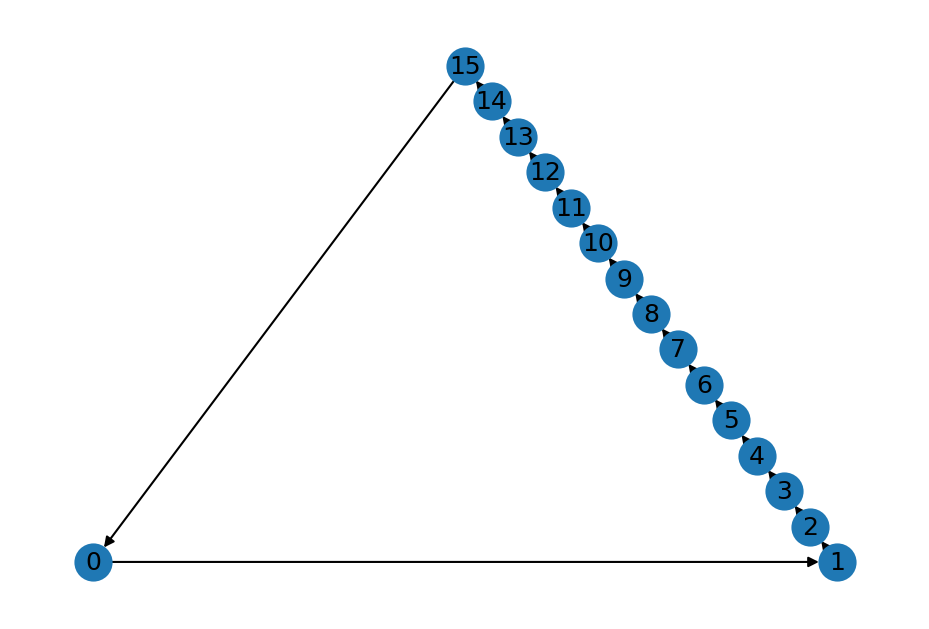
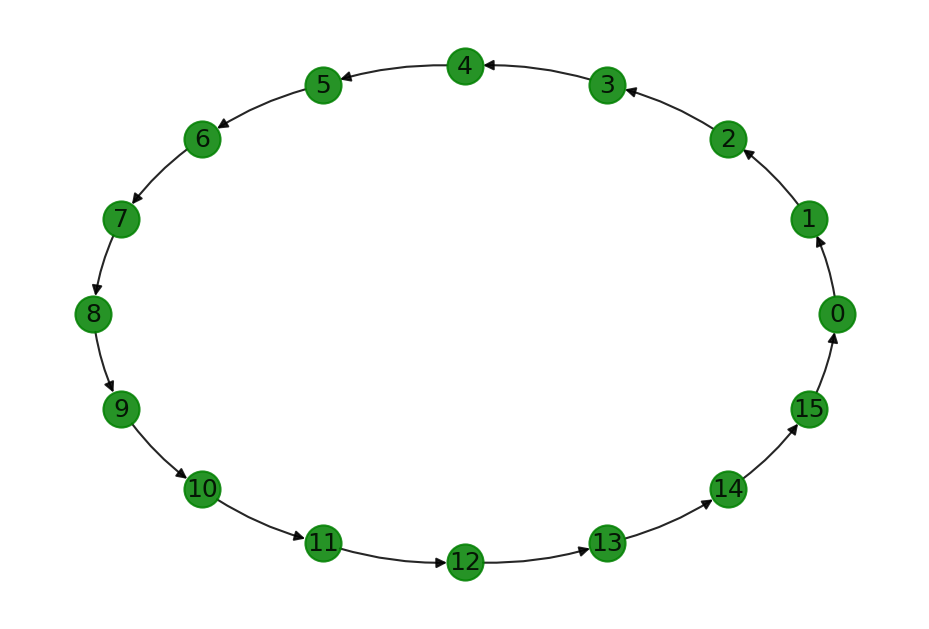
update

diff --git a/_posts/2020-12-01-conv_mat.md b/_posts/2020-12-01-conv_mat.md
@@ -7,9 +7,9 @@
 
 Perhaps the most ubiquitous operation in digital signal processing is the application of filters on signals via convolution. The convolution operation is defined as:
 
-$$ y[n] =(h * x)[n] = \sum_{m=0}^{N} h[n-m] x[m] $$
+$$ y[n] =(h * x)[n] = \sum_{m=0}^{N-1} h[n-m] x[m] $$
 
-where $x[n]$ is the input signal of length $P$, $h[n]$ is the filter of length $L$, $N = P + L - 1$, and $n \in \mathbb{Z}$ is the time step.
+where $x[n]$ is the input signal with entries $(x_0, ..., x_{P-1})$, $h[n]$ is the filter with entries $(h_0, ..., h_{L-1})$, $y[n]$ is the output with entries $(y_0, ..., y_{N=P+L-1})$.
 
 ### Properties:
 
@@ -41,17 +41,23 @@ Similarly a shifted delta function yields a shifted copy of the input sequence:
 
 $$ x[n - m] = x[n] * \delta[n - m] $$
 
-Any finite sequence $x[n]$ of length $N_x$ can be represented
+Any finite sequence $x[n]$ of length $P$ can be represented as a weighted sum (linear combination) of shifted delta functions
+
+$$x[n] = \sum_{m=0}^{P-1} x_m \delta[n - m]$$
+
+In fact, shifted delta functions serve as the basis vectors in time domain.
 
 ## Circular Convolution
 
 A related operation is circular convolution: 
 
-$$ y[n] = x[n] \circledast h[n] = \sum_{m=0}^{N-1} h[(n-m)\text{ mod } N] x[m] $$
+$$ y[n] = x[n] \circledast_N h[n] = \sum_{m=0}^{N-1} h[(n-m)\text{ mod } N] x[m] $$
 
-Circular Convolution can be used to compute regular convolution (sometimes called linear convolution) if $x$ and $h$ are padded with zeros such that the new lengths equal $N_x + N_h - 1$. 
+Circular Convolution can be used to compute regular convolution (sometimes called linear convolution) if $x$ and $h$ are padded with zeros such that the new lengths equal $P + L - 1$, and the output truncated to the length of $P+L-1$. 
 
+Example: 
 
+$\delta[n - 1] \circledast_P x[n]$ yields a circularly shifted sequence by one entry: $(x_{P-1}, x_0, ..., x_{P-2})$ 
 
 ## Fourier Transform
 
@@ -132,6 +138,30 @@ From the synthesis formulation above, one can see that the Fourier coefficients 
 </figure>
 
 
+### DFT and Circular Convolution
+
+DFT can be used apply circular convolution:
+
+$$
+Y[k] = \frac{1}{\sqrt{N}} \sum_{n = 0}^{N-1} y[n] W_N^{kn}=
+ \frac{1}{\sqrt{N}} \sum_{n = 0}^{N-1} W_N^{kn} \sum_{m=0}^{N-1} h[n-m \text{ mod } N] x[m] 
+$$
+
+$$
+\frac{1}{\sqrt{N}} \sum_{n = 0}^{N-1} y[n] W_N^{kn}=
+ \frac{1}{\sqrt{N}} \sum_{m=0}^{N-1} \sum_{n = 0}^{N-1} W_N^{kn}h[n-m \text{ mod } N] x[m] 
+$$
+
+$$
+ \frac{1}{\sqrt{N}} \sum_{m=0}^{N-1} H[k] x[m] W_N^{km}
+$$
+
+$$
+Y[k] = \sqrt{N}H[k]X[k] 
+$$
+
+Convolution reduces to element-wise multiplication in frequency domain.
+
 ## Circulant Matrices  
 
 $$
@@ -143,16 +173,38 @@ $$
 \end{bmatrix}
 $$
 
-# Graphs 
+# Graphs and Signal Processing
 
-Hol up!,
+The circular graph below can be interpreted as a regular signal progressing the regular time steps and repeating after finishing.
 
 <figure>
 <img src="{{site.baseurl}}/images/post_im/circulant/cycle.png">
   <figcaption>Cycle Graph</figcaption>
 </figure>
 
+Also note that the graph's adjacency matrix is a circulant matrix as well:
 
+$$
+A = 
+\begin{bmatrix}
+  0 & 1 & 0 & 0 & 0 & 0 & 0 & 0 & 0 & 0 & 0 & 0 & 0 & 0 & 0 & 0\\
+  0 & 0 & 1 & 0 & 0 & 0 & 0 & 0 & 0 & 0 & 0 & 0 & 0 & 0 & 0 & 0\\
+  0 & 0 & 0 & 1 & 0 & 0 & 0 & 0 & 0 & 0 & 0 & 0 & 0 & 0 & 0 & 0\\
+  0 & 0 & 0 & 0 & 1 & 0 & 0 & 0 & 0 & 0 & 0 & 0 & 0 & 0 & 0 & 0\\
+  0 & 0 & 0 & 0 & 0 & 1 & 0 & 0 & 0 & 0 & 0 & 0 & 0 & 0 & 0 & 0\\
+  0 & 0 & 0 & 0 & 0 & 0 & 1 & 0 & 0 & 0 & 0 & 0 & 0 & 0 & 0 & 0\\
+  0 & 0 & 0 & 0 & 0 & 0 & 0 & 1 & 0 & 0 & 0 & 0 & 0 & 0 & 0 & 0\\
+  0 & 0 & 0 & 0 & 0 & 0 & 0 & 0 & 1 & 0 & 0 & 0 & 0 & 0 & 0 & 0\\
+  0 & 0 & 0 & 0 & 0 & 0 & 0 & 0 & 0 & 1 & 0 & 0 & 0 & 0 & 0 & 0\\
+  0 & 0 & 0 & 0 & 0 & 0 & 0 & 0 & 0 & 0 & 1 & 0 & 0 & 0 & 0 & 0\\
+  0 & 0 & 0 & 0 & 0 & 0 & 0 & 0 & 0 & 0 & 0 & 1 & 0 & 0 & 0 & 0\\
+  0 & 0 & 0 & 0 & 0 & 0 & 0 & 0 & 0 & 0 & 0 & 0 & 1 & 0 & 0 & 0\\
+  0 & 0 & 0 & 0 & 0 & 0 & 0 & 0 & 0 & 0 & 0 & 0 & 0 & 1 & 0 & 0\\
+  0 & 0 & 0 & 0 & 0 & 0 & 0 & 0 & 0 & 0 & 0 & 0 & 0 & 0 & 1 & 0\\
+  0 & 0 & 0 & 0 & 0 & 0 & 0 & 0 & 0 & 0 & 0 & 0 & 0 & 0 & 0 & 1\\
+  1 & 0 & 0 & 0 & 0 & 0 & 0 & 0 & 0 & 0 & 0 & 0 & 0 & 0 & 0 & 0\\
+\end{bmatrix}
+$$
 
 # References:
 
